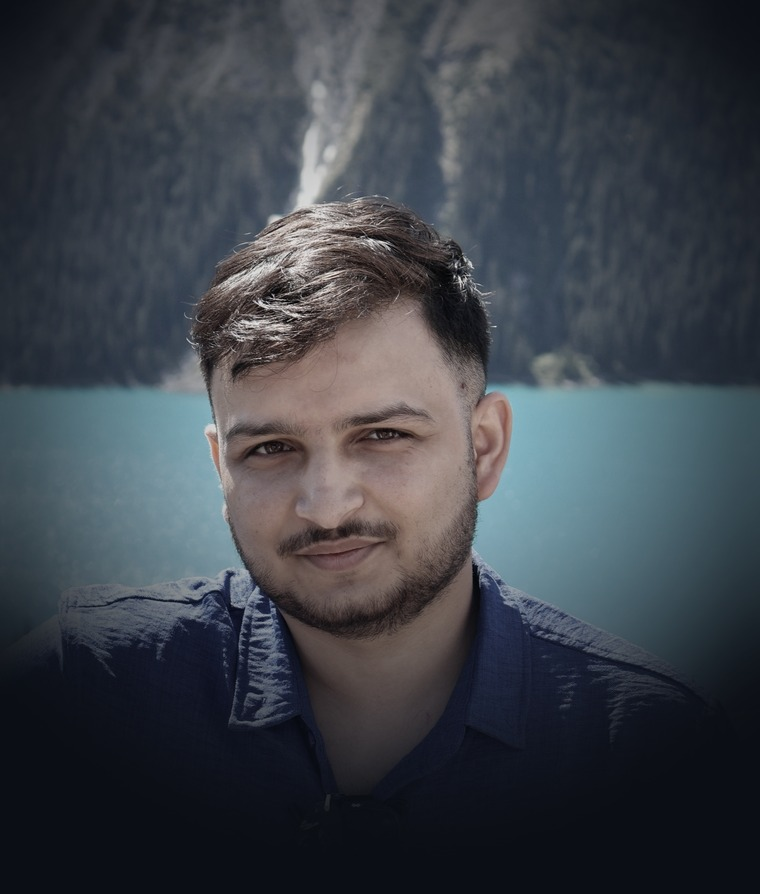
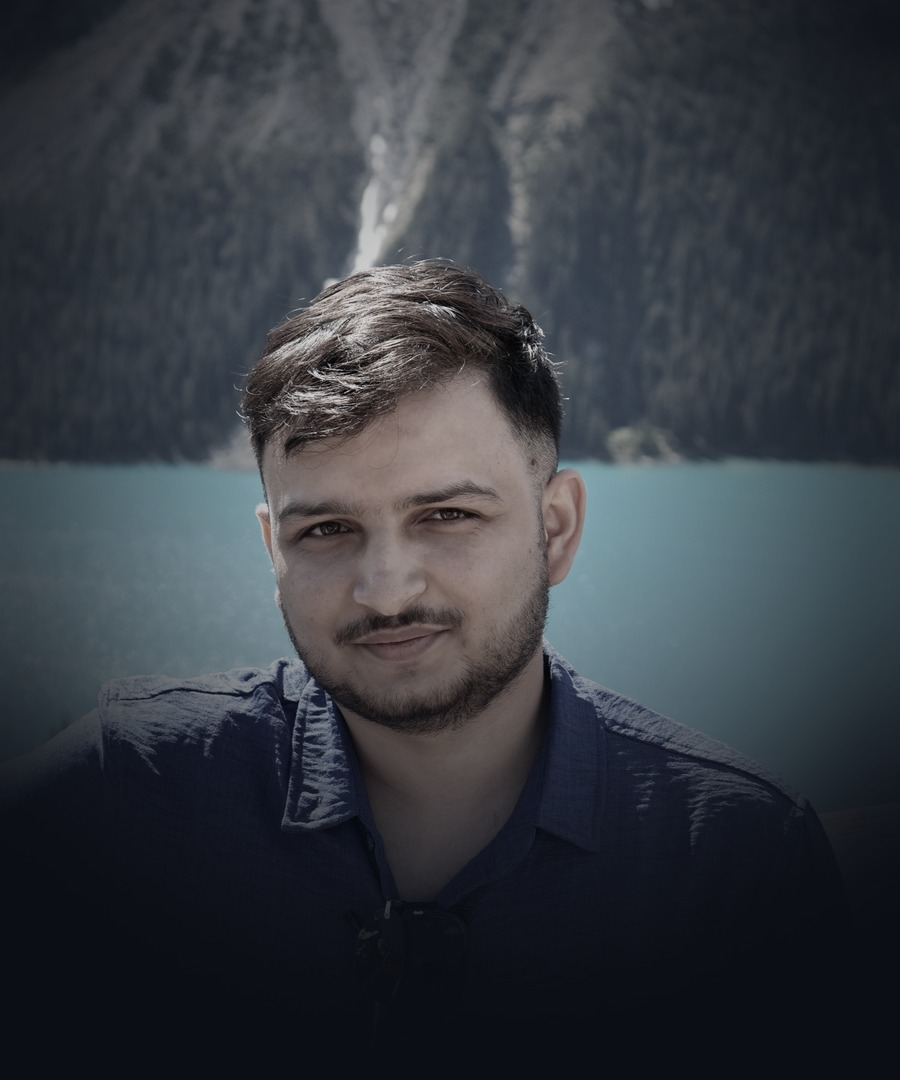
Blend hero photo into background instead of boxed card
Replace the boxed terminal-card photo treatment with an ambient,
edge-masked background photo in the hero section. Opacity is now
theme-aware via CSS variables so the photo stays subtle in light
mode instead of looking like a hard overlay.

Claude-Session: https://claude.ai/code/session_01MWAHz9FTmHJoj83pHcc6p5

diff --git a/index.html b/index.html
@@ -28,6 +28,8 @@
     --display:'Space Grotesk',sans-serif;
     --body:'Inter',sans-serif;
     --mono:'JetBrains Mono',monospace;
+    --hero-photo-opacity:0.5;
+    --hero-photo-opacity-mobile:0.28;
   }
   :root[data-theme="light"]{
     --bg:#F4F5F7;
@@ -43,6 +45,8 @@
     --text-faint:#8991A3;
     --border:#DCE0E8;
     --border-soft:#E7EAEF;
+    --hero-photo-opacity:0.14;
+    --hero-photo-opacity-mobile:0.1;
   }
   *{margin:0;padding:0;box-sizing:border-box;}
   html{scroll-behavior:smooth;overflow-x:hidden;width:100%;}
@@ -131,33 +135,34 @@
     padding-top:110px;padding-bottom:60px;
     position:relative;
   }
-  .hero-grid{
-    display:grid;grid-template-columns:1.25fr 0.85fr;gap:56px;align-items:center;
+  .hero-photo-bg{
+    position:absolute;top:0;right:0;z-index:0;
+    height:100%;width:62%;
+    object-fit:cover;object-position:top center;
+    opacity:var(--hero-photo-opacity);
+    transition:opacity .3s ease;
+    -webkit-mask-image:
+      linear-gradient(to left, rgba(0,0,0,1) 0%, rgba(0,0,0,1) 25%, rgba(0,0,0,0) 85%),
+      linear-gradient(to bottom, rgba(0,0,0,1) 55%, rgba(0,0,0,0) 100%);
+    -webkit-mask-composite: source-in, source-in;
+    -webkit-mask-repeat:no-repeat;
+    mask-image:
+      linear-gradient(to left, rgba(0,0,0,1) 0%, rgba(0,0,0,1) 25%, rgba(0,0,0,0) 85%),
+      linear-gradient(to bottom, rgba(0,0,0,1) 55%, rgba(0,0,0,0) 100%);
+    mask-composite: intersect;
+    mask-repeat:no-repeat;
+    pointer-events:none;
   }
-  .hero-photo-frame{
-    background:var(--bg-elev);border:1px solid var(--border);border-radius:var(--radius);
-    overflow:hidden;max-width:320px;margin-left:auto;
-    transition:border-color .25s ease, transform .2s ease;
-  }
-  .hero-photo-frame:hover{border-color:var(--text-faint);}
-  .hero-photo-img-wrap{position:relative;line-height:0;}
-  .hero-photo-img-wrap img{width:100%;display:block;filter:saturate(1.05);}
-  .hero-photo-status{
-    position:absolute;left:12px;bottom:12px;
-    display:flex;align-items:center;gap:7px;
-    background:rgba(11,14,20,0.75);backdrop-filter:blur(6px);-webkit-backdrop-filter:blur(6px);
-    border:1px solid rgba(79,209,197,0.35);color:var(--accent-2);
-    font-family:var(--mono);font-size:11px;letter-spacing:0.4px;text-transform:uppercase;
-    padding:6px 11px;border-radius:999px;
-  }
-  .hero-photo-status .dot{
-    width:6px;height:6px;border-radius:50%;background:var(--accent-2);
-    box-shadow:0 0 8px var(--accent-2);animation:pulse 2s ease-in-out infinite;
+  .hero-ctas, .hero-stats, .status-pill, .hero h1, .hero .role-line, .hero p.lede{
+    position:relative;z-index:1;
   }
   @media (max-width:900px){
-    .hero-grid{grid-template-columns:1fr;gap:36px;}
-    .hero-photo-frame{margin:0 auto;max-width:260px;}
-    .hero-photo{order:-1;}
+    .hero-photo-bg{width:100%;opacity:var(--hero-photo-opacity-mobile);
+      -webkit-mask-image:
+        linear-gradient(to bottom, rgba(0,0,0,0.9) 0%, rgba(0,0,0,0) 60%);
+      mask-image:
+        linear-gradient(to bottom, rgba(0,0,0,0.9) 0%, rgba(0,0,0,0) 60%);
+    }
   }
   .status-pill{
     display:inline-flex;align-items:center;gap:8px;
@@ -587,34 +592,19 @@
 
   <!-- HERO -->
   <section class="hero" id="home">
-    <div class="hero-grid">
-      <div class="hero-text">
-        <div class="status-pill"><span class="dot"></span>SYSTEM STATUS: OPEN TO WORK</div>
-        <h1>Aswin Mainali</h1>
-        <div class="role-line"><span id="typed"></span><span class="cursor"></span></div>
-        <p class="lede">My background is in technical support, user troubleshooting, escalation handling, support documentation, and team coordination. I'm currently completing my BBA in Vancouver while building software products and expanding my skills in QA, cybersecurity, and automation.</p>
-        <div class="hero-ctas">
-          <a href="Aswin_Mainali_Resume.pdf" class="btn btn-primary" target="_blank" rel="noopener">Download resume</a>
-          <a href="#projects" class="btn btn-outline">View projects</a>
-        </div>
-        <div class="hero-stats reveal">
-          <div><div class="num">~4 yrs</div><div class="label">Technical support</div></div>
-          <div><div class="num" data-count data-target="2" data-suffix="">0</div><div class="label">Products in build</div></div>
-          <div><div class="num">Dec '26</div><div class="label">BBA graduation</div></div>
-        </div>
-      </div>
-      <div class="hero-photo reveal">
-        <div class="hero-photo-frame tilt-card">
-          <div class="terminal-bar">
-            <span></span><span></span><span></span>
-            <div class="fname">profile.jpg</div>
-          </div>
-          <div class="hero-photo-img-wrap">
-            <img src="profile.jpg" alt="Aswin Mainali" loading="eager">
-            <span class="hero-photo-status"><span class="dot"></span>Online</span>
-          </div>
-        </div>
-      </div>
+    <img src="profile.jpg" alt="" aria-hidden="true" class="hero-photo-bg" loading="eager">
+    <div class="status-pill"><span class="dot"></span>SYSTEM STATUS: OPEN TO WORK</div>
+    <h1>Aswin Mainali</h1>
+    <div class="role-line"><span id="typed"></span><span class="cursor"></span></div>
+    <p class="lede">My background is in technical support, user troubleshooting, escalation handling, support documentation, and team coordination. I'm currently completing my BBA in Vancouver while building software products and expanding my skills in QA, cybersecurity, and automation.</p>
+    <div class="hero-ctas">
+      <a href="Aswin_Mainali_Resume.pdf" class="btn btn-primary" target="_blank" rel="noopener">Download resume</a>
+      <a href="#projects" class="btn btn-outline">View projects</a>
+    </div>
+    <div class="hero-stats reveal">
+      <div><div class="num">~4 yrs</div><div class="label">Technical support</div></div>
+      <div><div class="num" data-count data-target="2" data-suffix="">0</div><div class="label">Products in build</div></div>
+      <div><div class="num">Dec '26</div><div class="label">BBA graduation</div></div>
     </div>
   </section>
 
